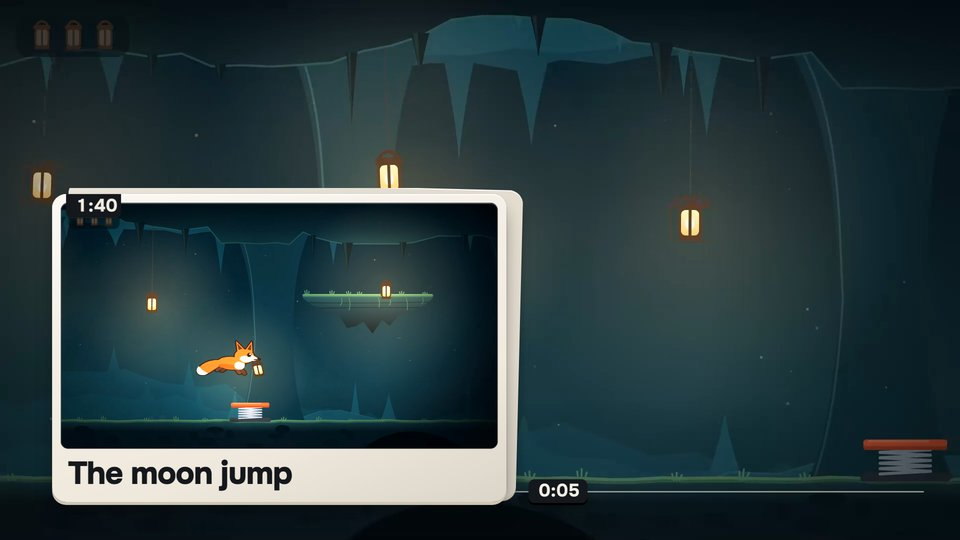
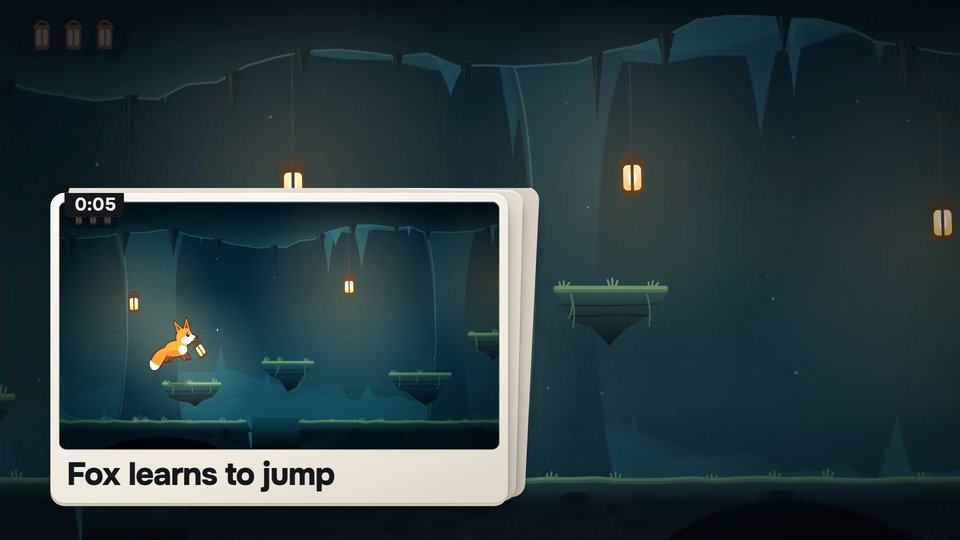
Show the first chapter card in the README scene row

diff --git a/README.md b/README.md
@@ -37,7 +37,7 @@ A raid brings a group of people who have no idea what the stream is about. Regul
 
 In the example recording, Foxlight Dev is building a small cave platformer. At 1:40 a spring pad launches the fox through the ceiling and chat floods with "MOON JUMP". At 3:30 the spring gets a speed limit, and the moon jump stays in the game as a secret cheat. When pixelmoth raids with 37 viewers at 7:10, the scene walks them through the chapters with the real gameplay clips, shows chat's burst turning into the term "moon jump" and what it means, and ends on what is happening now: making the lantern behind the waterfall reachable. Then the overlay clears the screen.
 
-<p align="center"><img src="docs/readme/shot-scene-chapters.jpg" width="32%" alt="Raid scene: chapter cards over gameplay with the moon jump clip playing in one of them"> <img src="docs/readme/shot-scene-chat.jpg" width="32%" alt="Raid scene: real chat lines saying MOON JUMP piling up next to the moon jump clip, 45 messages in ten seconds"> <img src="docs/readme/shot-scene-now.jpg" width="32%" alt="Raid scene: the final card saying the streamer is making the lantern behind the waterfall reachable"></p>
+<p align="center"><img src="docs/readme/shot-scene-chapters.jpg" width="32%" alt="Raid scene: the first chapter card, Fox learns to jump, playing its gameplay clip over the stream"> <img src="docs/readme/shot-scene-chat.jpg" width="32%" alt="Raid scene: real chat lines saying MOON JUMP piling up next to the moon jump clip, 45 messages in ten seconds"> <img src="docs/readme/shot-scene-now.jpg" width="32%" alt="Raid scene: the final card saying the streamer is making the lantern behind the waterfall reachable"></p>
 <p align="center"><sub>The chapters so far, chat's moon jump burst, and what is happening now</sub></p>
 
 The same story answers `!previously` in chat and fills the channel's public page, where a late viewer can open the source behind any chapter. Every sentence is held back for 75 seconds after its last source and checked before anyone sees it, so the streamer has time to fix or remove it first.
